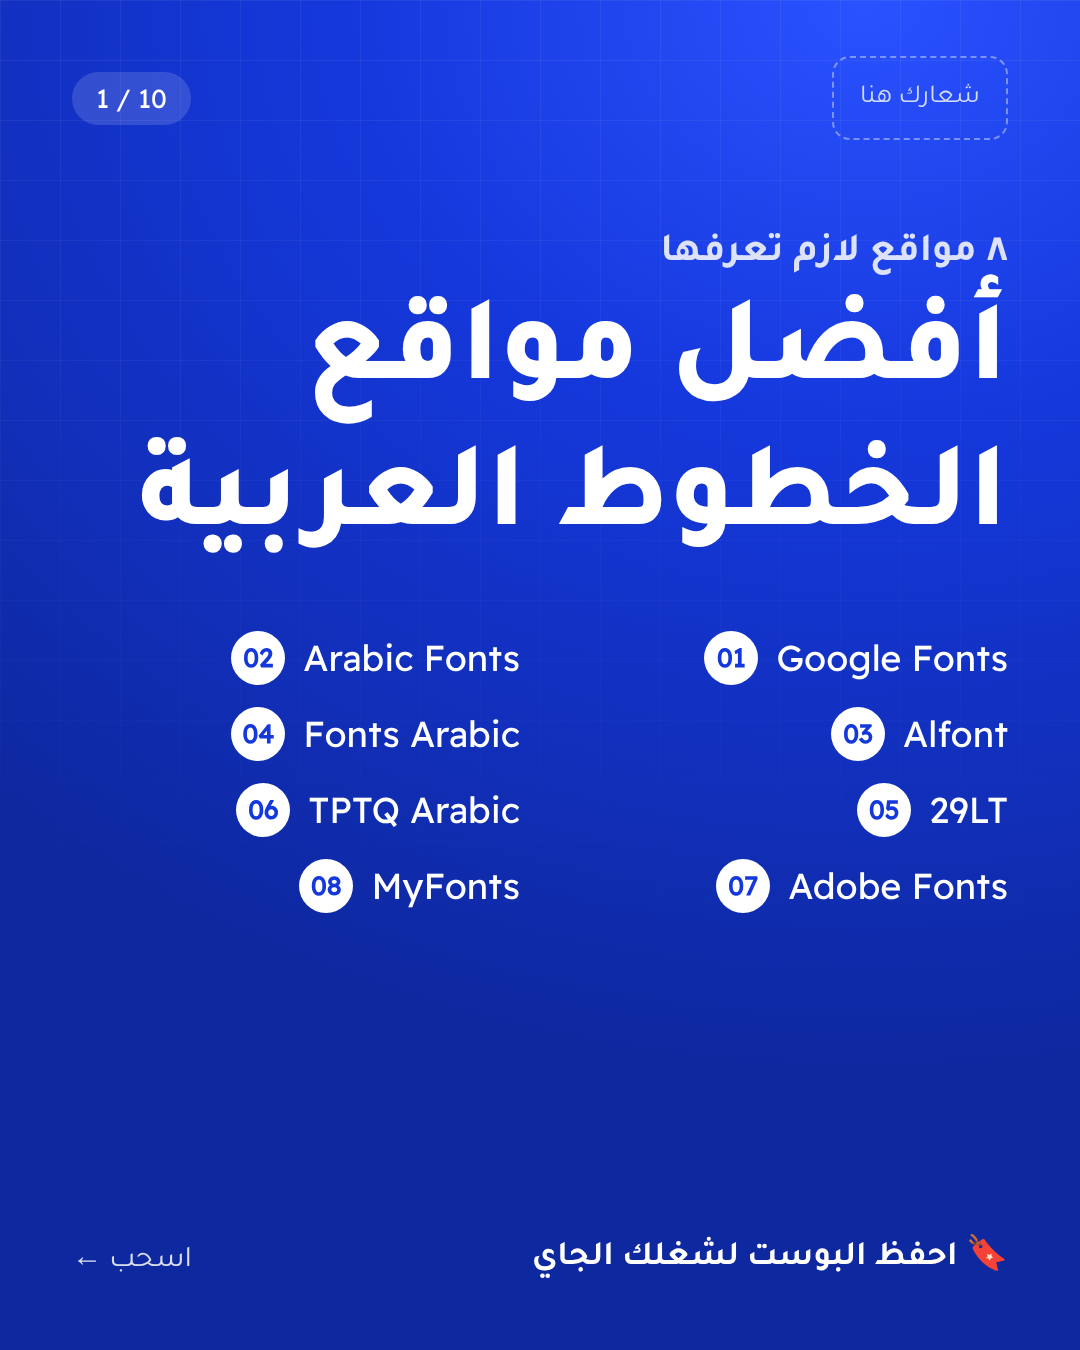
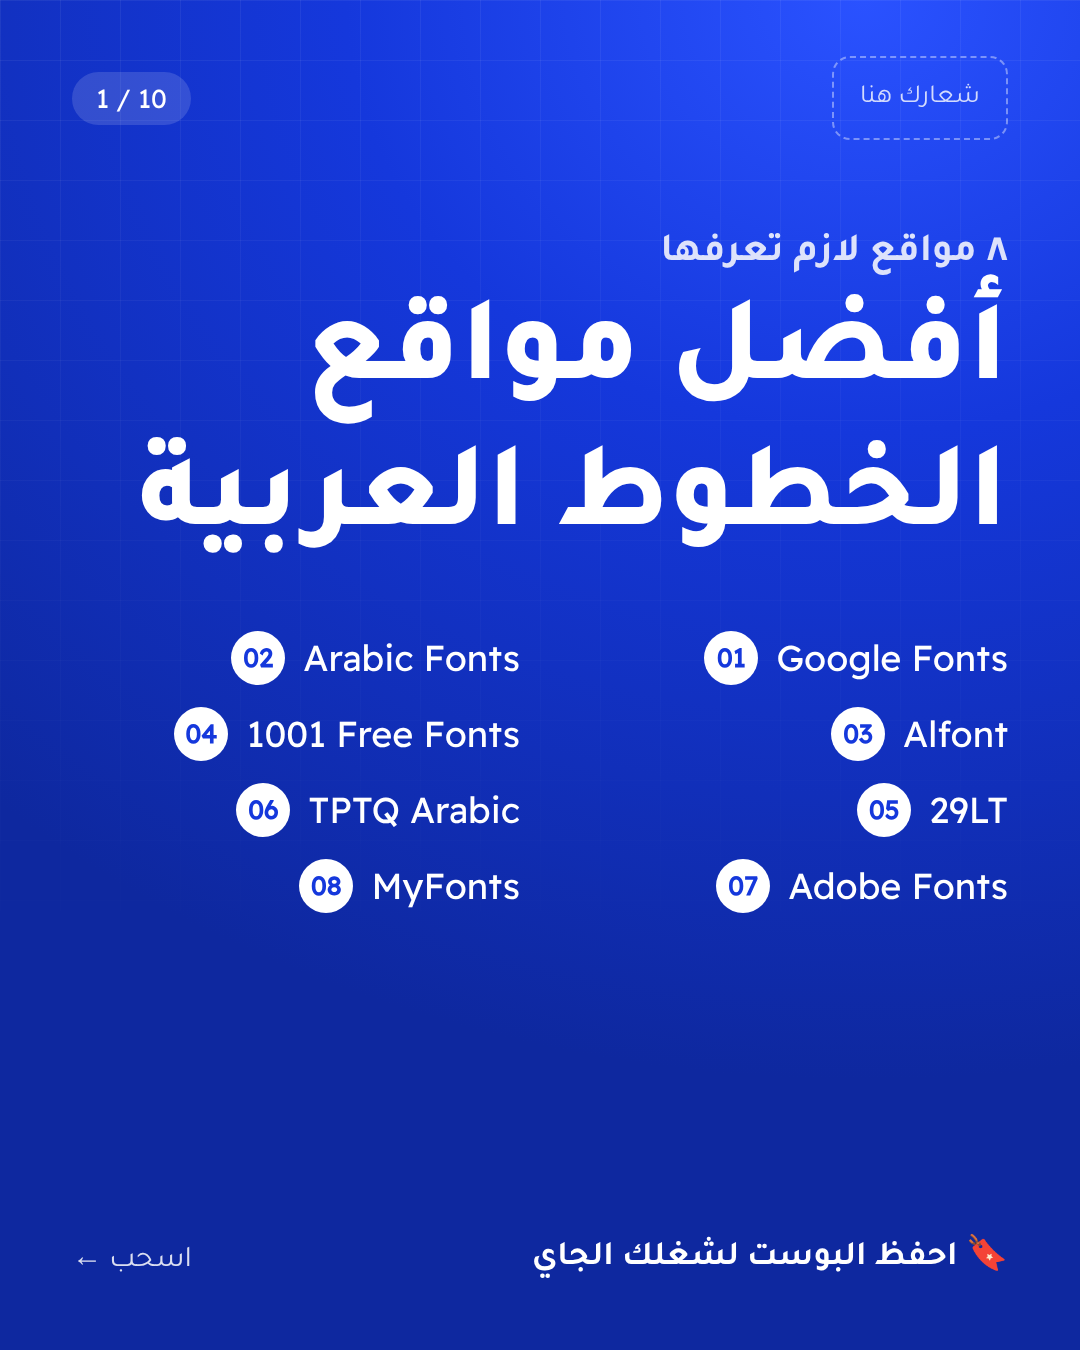
Replace unverified site with 1001 Free Fonts; refine TPTQ copy
Claude-Session: https://claude.ai/code/session_01HmuEa4Kje77rHMqSMNYbVn

Changed region(s): [[0.1528, 0.5289, 0.4889, 0.56]]

diff --git a/arabic-fonts-posts/build.py b/arabic-fonts-posts/build.py
@@ -14,14 +14,14 @@ SITES = [
  dict(n="03", name="Alfont", url="alfont.com", tag="مجاني",
       desc="آلاف الخطوط العربية مع معاينة مباشرة للنص اللي تكتبه قبل التحميل.",
       fonts=["Rakkas","Lemonada","Katibeh","Mirza","Jomhuria","Vibes"]),
- dict(n="04", name="Fonts Arabic", url="fontsarabic.com", tag="مجاني",
-      desc="تشكيلة كبيرة من الخطوط العربية المجانية مرتبة بتصنيفات تسهّل عليك البحث.",
+ dict(n="04", name="1001 Free Fonts", url="1001freefonts.com", tag="مجاني",
+      desc="موقع خطوط عالمي فيه قسم كامل للخطوط العربية. انتبه لرخصة كل خط قبل الاستخدام التجاري.",
       fonts=["Kufam","Blaka","Qahiri","Messiri","Ruwudu","Reem Kufi Ink"]),
  dict(n="05", name="29LT", url="29lt.com", tag="احترافي",
       desc="مسبك خطوط عربي احترافي، خطوطه مصممة بعناية للهويات والعلامات التجارية.",
       fonts=["Readex Pro","Alexandria","Noto Kufi Arabic","Rubik","IBM Plex Sans Arabic","Baloo Bhaijaan 2"]),
  dict(n="06", name="TPTQ Arabic", url="tptq-arabic.com", tag="احترافي",
-      desc="مسبك متخصص بالخط العربي، يقدّم خطوط عصرية متوافقة مع خطوط لاتينية.",
+      desc="مسبك متخصص بالخط العربي، من أعماله خط Greta Arabic، ومن عملائه الجزيرة واللوفر أبوظبي.",
       fonts=["Noto Sans Arabic","Vazirmatn","Zain","Playpen Sans Arabic","Handjet","Beiruti"]),
  dict(n="07", name="Adobe Fonts", url="fonts.adobe.com", tag="مع الاشتراك",
       desc="متاح مع اشتراك أدوبي، يتفعّل الخط مباشرة داخل فوتوشوب وإليستريتور.",
